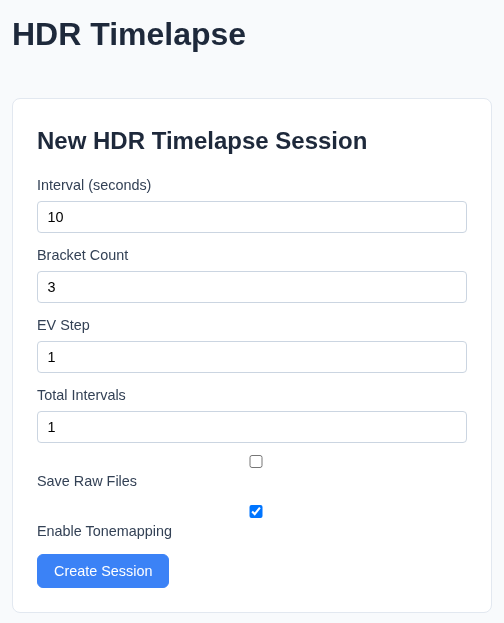
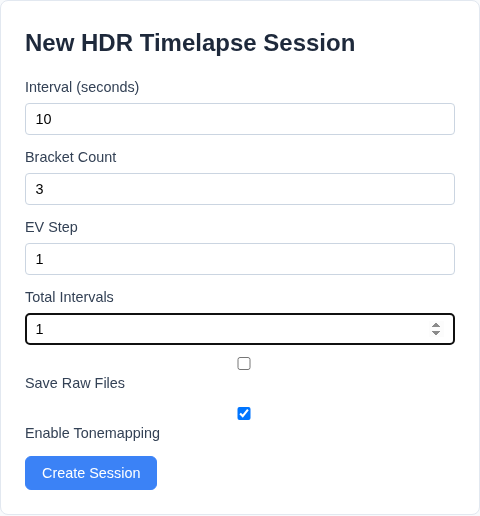
Illustrate the guide with captures from the packaged application

Changed region(s): [[0.0312, 0.2791, 0.9688, 0.9612], [0.0, 0.031, 0.75, 0.124], [0.0625, 0.155, 0.75, 0.2481]]

diff --git a/docs/web-interface.md b/docs/web-interface.md
@@ -27,4 +27,4 @@ Open **HDR Timelapse** and choose **New Session**. **Bracket Count** is the numb
 
 Choose **Create Session** to review the session and its status. Choose **Start** in the session panel when you are ready to capture. Configuring a session and starting its capture are separate actions. See the [REST API guide](api.md) for programmatic access.
 
-The screenshots show the application's React views rendered in Chromium with example API responses. The live-view image was generated by the project's Java mock camera.
+The screenshots were captured in Chromium from the packaged application, using an in-memory database and the project's Java mock camera.
